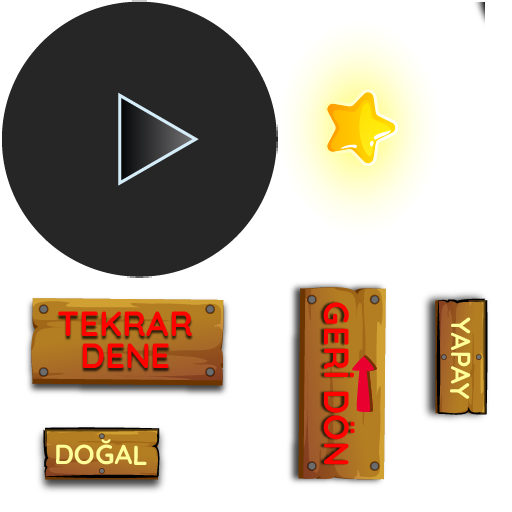
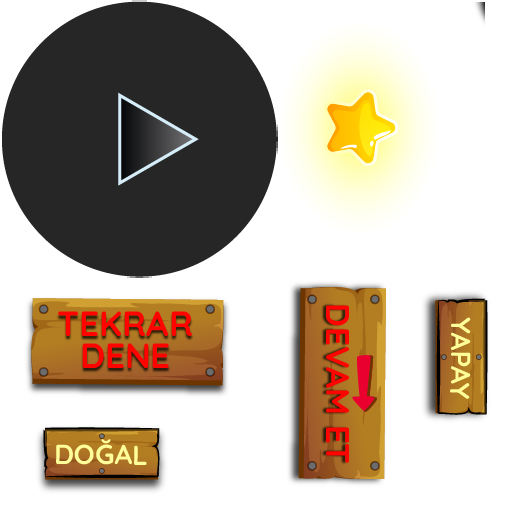
nnn

Changed region(s): [[0.625, 0.5938, 0.75, 0.9062]]

diff --git a/scripts/c3runtime.js b/scripts/c3runtime.js
@@ -4223,7 +4223,8 @@ self.C3_GetObjectRefTable = function () {
 		C3.Plugins.Browser.Acts.RequestFullScreen,
 		C3.Plugins.Browser.Acts.CancelFullScreen,
 		C3.Plugins.Audio.Acts.StopAll,
-		C3.Plugins.Audio.Cnds.OnEnded
+		C3.Plugins.Audio.Cnds.OnEnded,
+		C3.Plugins.System.Acts.ResetGlobals
 	];
 };
 self.C3_JsPropNameTable = [
@@ -4251,7 +4252,7 @@ self.C3_JsPropNameTable = [
 	{can: 0},
 	{can2: 0},
 	{can3: 0},
-	{Sprite2: 0},
+	{tekrarDene: 0},
 	{Sprite3: 0},
 	{baslaBtn: 0},
 	{sesBtn: 0},

diff --git a/index.html b/index.html
@@ -8,7 +8,10 @@
 <meta name="generator" content="Scirra Construct">
 
 	<link rel="manifest" href="appmanifest.json">
-
+	<link rel="apple-touch-icon" sizes="128x128" href="icons/icon-128.png">
+	<link rel="apple-touch-icon" sizes="256x256" href="icons/icon-256.png">
+	<link rel="apple-touch-icon" sizes="512x512" href="icons/icon-512.png">
+	<link rel="icon" type="image/png" href="icons/icon-512.png">
 
 <link rel="stylesheet" href="style.css">
 
